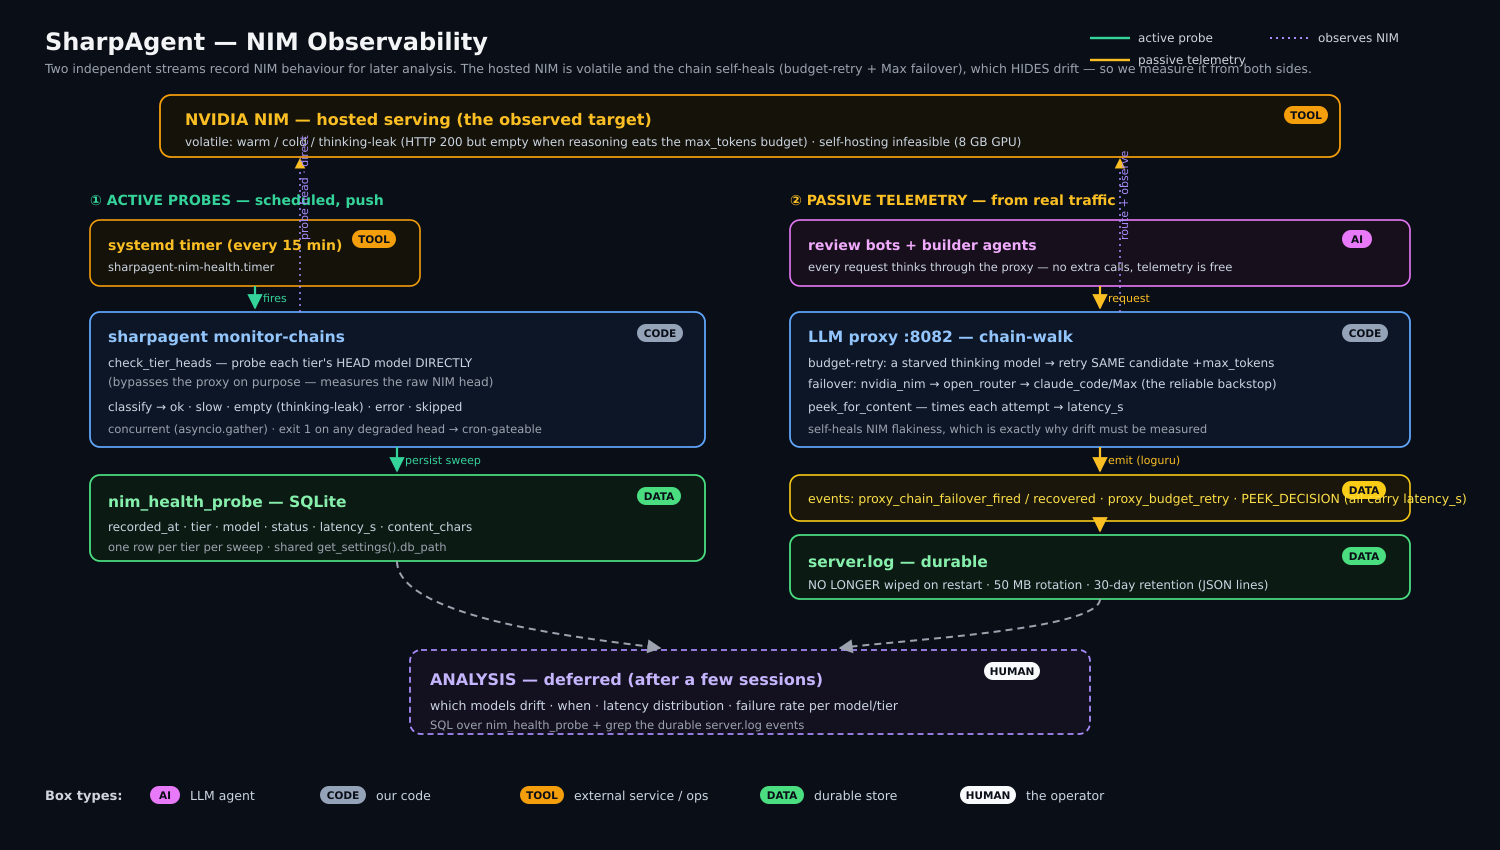
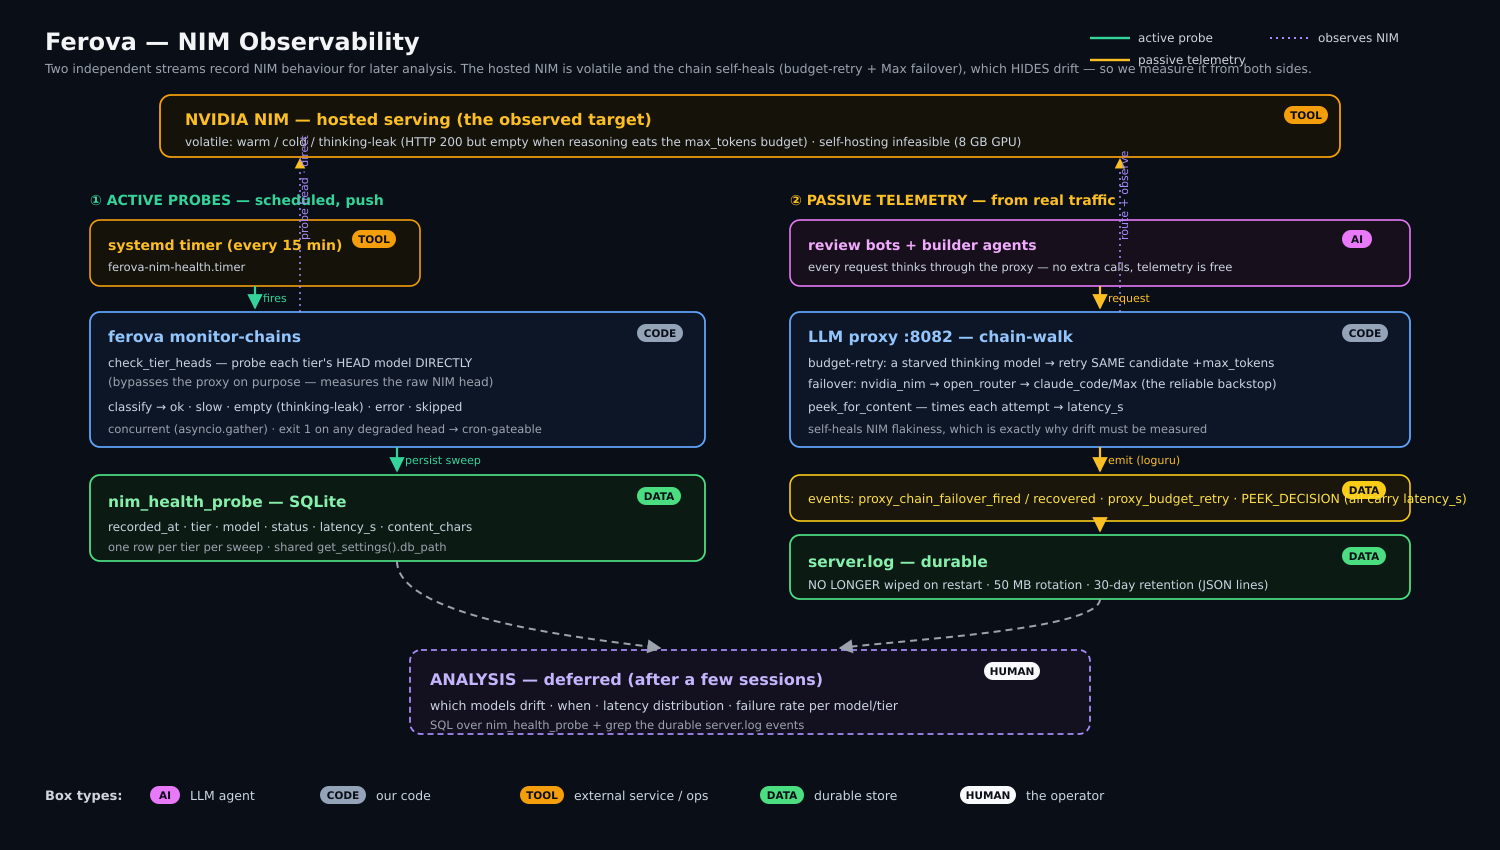
docs: refresh architecture figures and embed them in the README
Figures still carried the pre-rename SharpAgent branding and described
the retired merge gate. Corrected against current code:

- SharpAgent -> Ferova everywhere (titles, CLI names, systemd units)
- Review Factory: 'unanimous 4/4 APPROVE' verdict box replaced by the
  pure evidence-first gate (CI green at head, zero re-verified blocking
  findings, complete review, spec coverage); Hallucination Guard box
  now 'Claim verification' (mechanical verifiers + adversarial refuter)
- Review Redesign retitled 'evidence-first, implemented' (all 11 slices
  landed); runner is self-hosted, not ubuntu
- PNGs regenerated from the corrected SVGs (inkscape, 1500px)

README: embed the factory figure in 'How it works', add the three other
figures as collapsible deep dives, replace the nonexistent 'pipx run
ferova demo' quickstart with real commands, wire the live CI badge,
drop the dead post-mortem link placeholder.

Changed region(s): [[0.0307, 0.0306, 0.3373, 0.0612], [0.0613, 0.3671, 0.2147, 0.4282], [0.0613, 0.3059, 0.184, 0.3365]]

diff --git a/README.md b/README.md
@@ -6,7 +6,7 @@
 
 *Plug it into your repo — it builds your system, and keeps forging itself.*
 
-[![CI](https://img.shields.io/badge/CI-green-brightgreen)]() [![License](https://img.shields.io/badge/license-MIT-blue)]() [![Built by Ferova](https://img.shields.io/badge/built%20by-Ferova-orange)]()
+[![CI](https://github.com/ferovahq/ferova/actions/workflows/ci.yml/badge.svg?branch=develop)](https://github.com/ferovahq/ferova/actions/workflows/ci.yml) [![License](https://img.shields.io/badge/license-MIT-blue)]() [![Built by Ferova](https://img.shields.io/badge/built%20by-Ferova-orange)]()
 
 </div>
 
@@ -28,23 +28,46 @@ Every change is anchored to a spec whose frontmatter declares **what it owns** a
 
 ### 3. Self-evolving routing
 Ferova runs its agents across a dozen LLM providers with automatic failover. A built-in autopilot watches each provider's live health and **rewrites its own routing** to stay fast and cheap — bounded by hard safety caps.
-> *It once tried to delete its own routing in a single cycle. Here's the post-mortem →* [link]
 
 ### 🔁 It builds itself
 Ferova is built by Ferova. Every PR in this repo went through Ferova's own review pipeline and merge gate. **The factory is its own first customer.**
 
 ## How it works
 
-```
-spec ─▶ Developer agent ─▶ PR ─▶ Architect · Sentinel · Tester · Scribe ─▶ evidence-first gate ─▶ merge
-                                          (4 reviewers)                   (re-verifies at HEAD)
-```
+A spec's life, top to bottom: build → review → ship. Four reviewers and a claim-verification layer feed a findings ledger; a pure evidence-first gate re-verifies everything at the exact head it is about to merge.
+
+![Ferova — the review factory, from spec to merge](docs/review_factory_architecture.png)
+
+### Deeper dives
+
+<details>
+<summary><b>The review pipeline</b> — findings, mechanical verifiers, adversarial refuter, and the merge gate</summary>
+
+![Ferova — evidence-first review pipeline](docs/review_redesign_architecture.png)
+</details>
+
+<details>
+<summary><b>Builder memory</b> — the factory recalls past lessons before planning and remembers each build's outcome</summary>
+
+![Ferova — builder memory loop](docs/builder_memory_architecture.png)
+</details>
+
+<details>
+<summary><b>Provider observability</b> — active probes + passive telemetry around the self-healing LLM gateway</summary>
+
+![Ferova — NIM observability](docs/nim_observability_architecture.png)
+</details>
 
 ## Quickstart
 
 ```bash
-# zero-key demo against a sample repo — no provider keys required
-pipx run ferova demo
+git clone https://github.com/ferovahq/ferova && cd ferova
+pip install -e ".[dev]"
+
+ferova --help            # the CLI
+ferova review pr <N>     # run the review team on a pull request
+ferova review gate <N>   # evidence-first merge gate, read-only
+ferova develop <SP-ID>   # plan-driven build from a spec
 ```
 
 ## Safety
